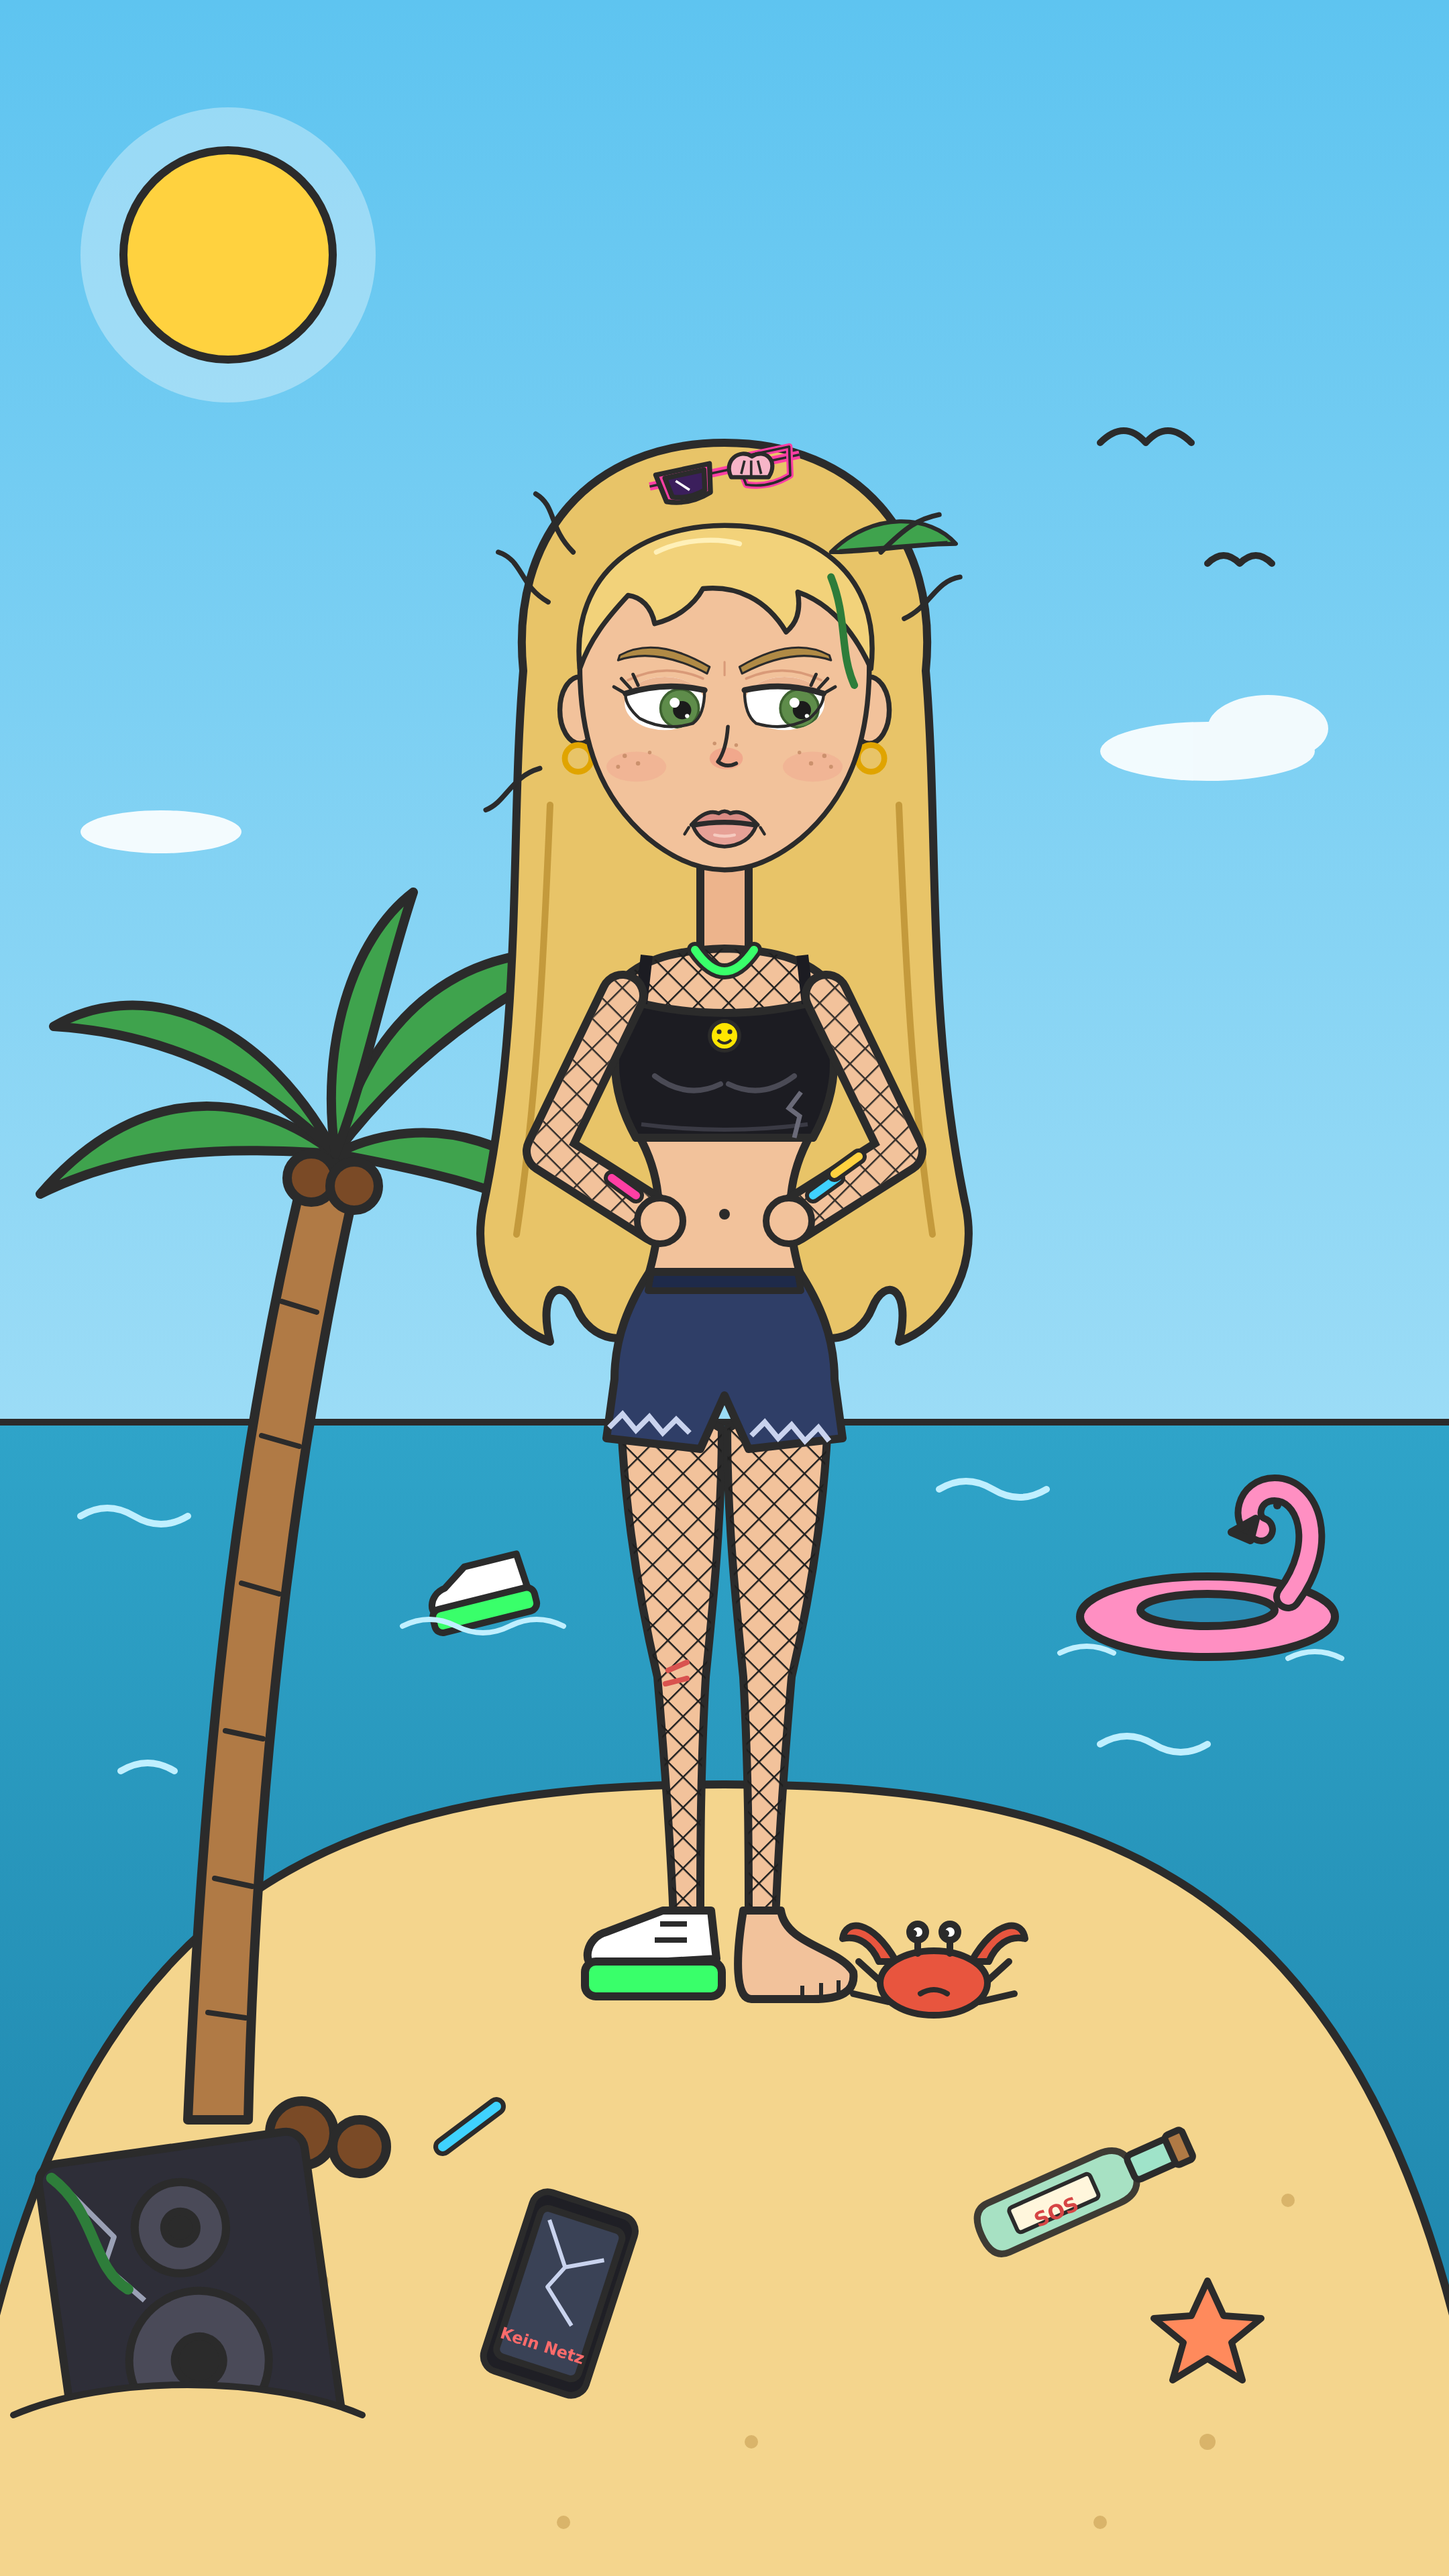
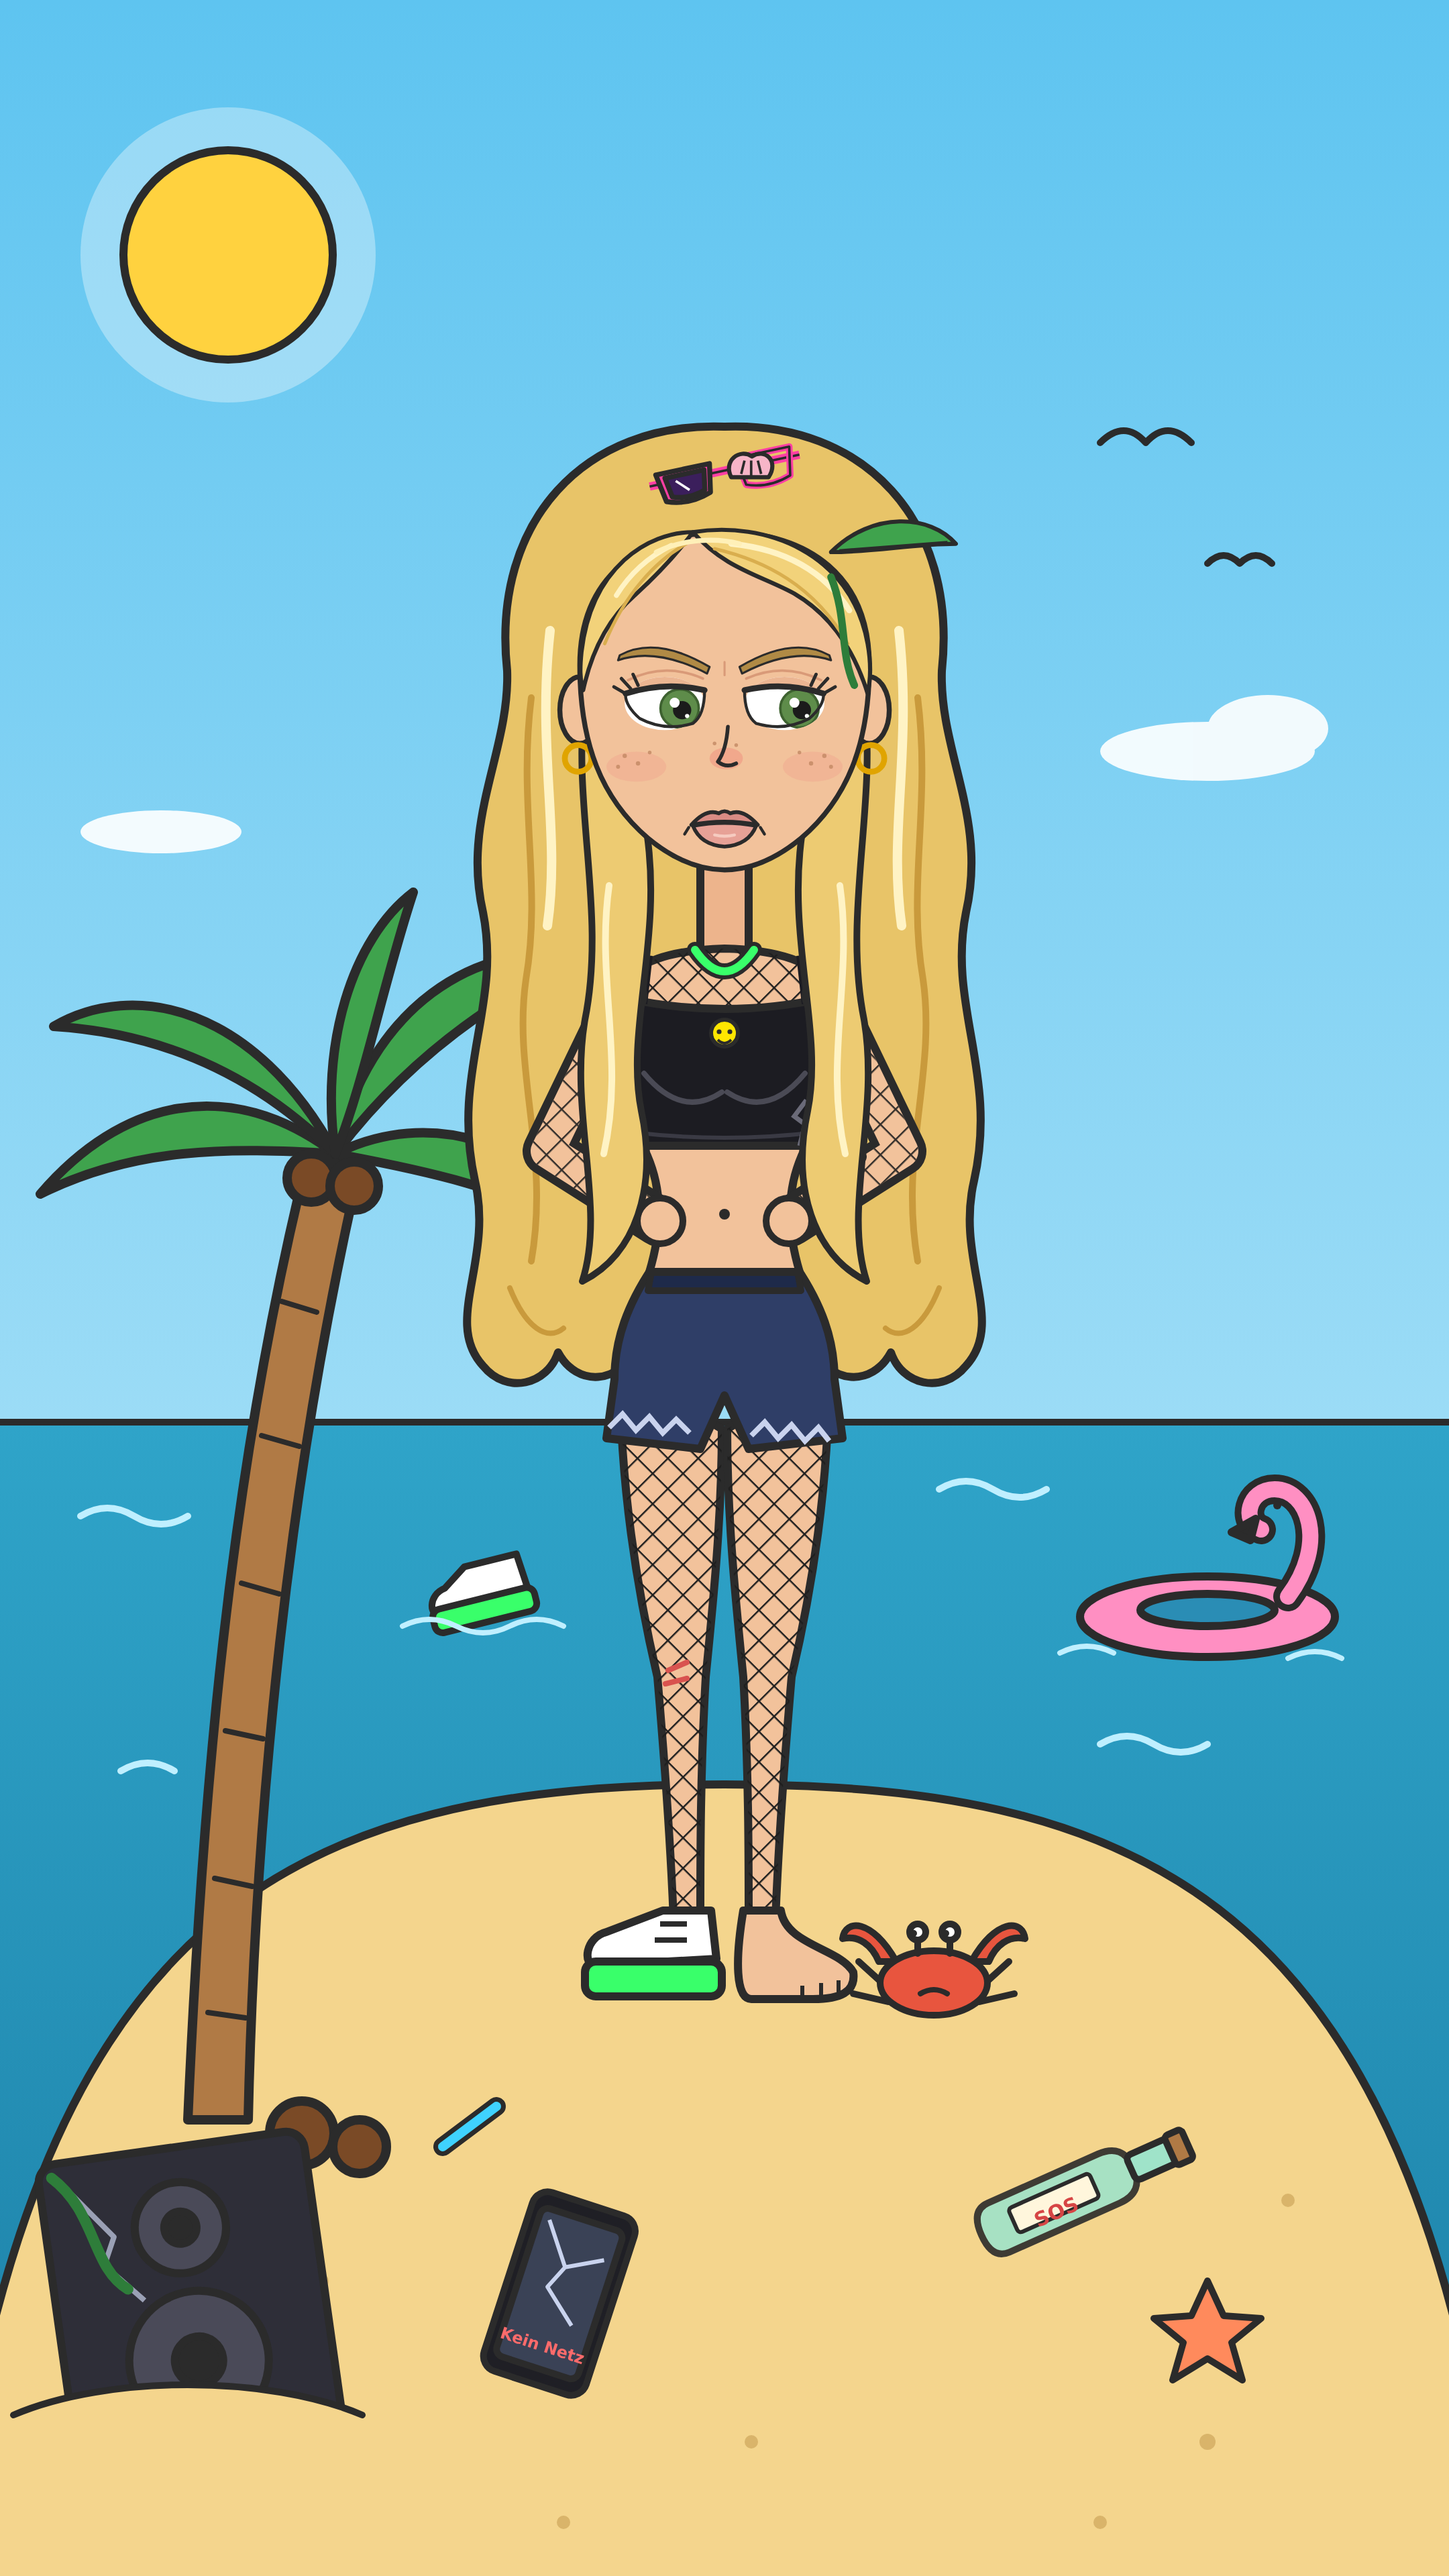
Clara: wavy feminine hair with curtain bangs, larger bust; episode 1 camera (big start, wider scenes)
Claude-Session: https://claude.ai/code/session_01McNdgYugzPJwXYyEGc7sEs

Changed region(s): [[0.3102, 0.1562, 0.6824, 0.5625]]

diff --git a/grumpy/avatar/build_avatar.py b/grumpy/avatar/build_avatar.py
@@ -107,11 +107,15 @@ svg = f'''<svg xmlns="http://www.w3.org/2000/svg" viewBox="0 0 1080 1920" width=
   <path d="M10 1800 C80 1770 200 1770 270 1800 L270 1860 L10 1860 Z" fill="#F4D58D"/>
   <path d="M10 1800 C80 1770 200 1770 270 1800" fill="none" stroke="{O}" stroke-width="5" stroke-linecap="round"/>
 
-  <!-- lange Haare hinten (nass, zerzaust) -->
-  <path d="M540 330 C640 330 700 400 690 500 C700 620 690 760 720 900 C730 950 700 990 670 1000 C680 960 660 950 650 975 C640 1000 610 1005 600 985 L480 985 C470 1005 440 1000 430 975 C420 950 400 960 410 1000 C380 990 350 950 360 900 C390 760 380 620 390 500 C380 400 440 330 540 330 Z"
+  <!-- lange, wellige Haare hinten (blond, mit Glanz) -->
+  <path d="M540 318 C644 314 714 388 702 500 C700 560 736 610 720 680 C706 750 744 800 726 880 C712 940 750 985 720 1018 C702 1040 672 1032 664 1008 C650 1034 618 1032 606 1004 L474 1004 C462 1032 430 1034 416 1008 C408 1032 378 1040 360 1018 C330 985 368 940 354 880 C336 800 374 750 360 680 C344 610 380 560 378 500 C366 388 436 314 540 318 Z"
         fill="#E8C468" stroke="{O}" stroke-width="6" stroke-linejoin="round"/>
-  <g fill="none" stroke="#C49A3C" stroke-width="5" stroke-linecap="round">
-    <path d="M410 600 C405 720 400 820 385 920"/><path d="M670 600 C675 720 680 820 695 920"/>
+  <g fill="none" stroke-linecap="round">
+    <path d="M396 520 C386 600 404 660 392 730 C382 800 410 860 396 940" stroke="#C99A3C" stroke-width="5"/>
+    <path d="M684 520 C694 600 676 660 688 730 C698 800 670 860 684 940" stroke="#C99A3C" stroke-width="5"/>
+    <path d="M410 470 C400 560 418 620 408 690" stroke="#FFF3C4" stroke-width="7"/>
+    <path d="M670 470 C680 560 662 620 672 690" stroke="#FFF3C4" stroke-width="7"/>
+    <path d="M380 960 C392 990 408 1000 420 990 M700 960 C688 990 672 1000 660 990" stroke="#C99A3C" stroke-width="4"/>
   </g>
 
   <!-- Beine mit Netzstrumpfhose -->
@@ -140,7 +144,7 @@ svg = f'''<svg xmlns="http://www.w3.org/2000/svg" viewBox="0 0 1080 1920" width=
   <path d="M486 945 L594 945 L597 962 L483 962 Z" fill="#1E2A4A" stroke="{O}" stroke-width="5" stroke-linejoin="round"/>
 
   <!-- Taille (schmal) -->
-  <path d="M476 846 L604 846 C588 875 584 905 596 948 L484 948 C496 905 492 875 476 846 Z" fill="{SK}" stroke="{O}" stroke-width="6" stroke-linejoin="round"/>
+  <path d="M478 852 L602 852 C588 878 584 908 596 948 L484 948 C496 908 492 878 478 852 Z" fill="{SK}" stroke="{O}" stroke-width="6" stroke-linejoin="round"/>
   <circle cx="540" cy="905" r="4" fill="{O}"/>
 
   <!-- Hals + Schultern (Netzshirt) -->
@@ -149,13 +153,13 @@ svg = f'''<svg xmlns="http://www.w3.org/2000/svg" viewBox="0 0 1080 1920" width=
   <path d="M458 738 C472 716 502 708 540 707 C578 708 608 716 622 738 L614 790 L466 790 Z" fill="url(#net)"/>
 
   <!-- schwarzes Crop-Top (Oberweite betont, kurz) -->
-  <path d="M470 746 Q540 764 610 746 C626 778 626 812 606 848 L474 848 C454 812 454 778 470 746 Z" fill="#1C1C22" stroke="{O}" stroke-width="6" stroke-linejoin="round"/>
+  <path d="M466 744 Q540 760 614 744 C640 776 644 822 612 854 L468 854 C436 822 440 776 466 744 Z" fill="#1C1C22" stroke="{O}" stroke-width="6" stroke-linejoin="round"/>
   <path d="M478 748 L482 712 M602 748 L598 712" stroke="#1C1C22" stroke-width="9"/>
-  <path d="M488 802 Q512 820 537 808 M543 808 Q568 820 592 802" fill="none" stroke="#4A4A55" stroke-width="4" stroke-linecap="round"/>
-  <path d="M478 838 Q540 846 602 838" fill="none" stroke="#3A3A44" stroke-width="3"/>
-  <circle cx="540" cy="772" r="11" fill="#FFE600" stroke="{O}" stroke-width="3"/>
+  <path d="M480 800 Q508 834 538 814 M542 814 Q572 834 600 800" fill="none" stroke="#4A4A55" stroke-width="4" stroke-linecap="round"/>
+  <path d="M472 844 Q540 852 608 844" fill="none" stroke="#3A3A44" stroke-width="3"/>
+  <circle cx="540" cy="770" r="10" fill="#FFE600" stroke="{O}" stroke-width="3"/>
   <circle cx="536" cy="769" r="1.8" fill="{O}"/><circle cx="544" cy="769" r="1.8" fill="{O}"/><path d="M535 775 q5 5 10 0" fill="none" stroke="{O}" stroke-width="2"/>
-  <path d="M592 848 l4 -16 l-8 -6 l9 -12" fill="none" stroke="#6A6A78" stroke-width="3.5"/>
+  <path d="M596 854 l4 -16 l-8 -6 l9 -12" fill="none" stroke="#6A6A78" stroke-width="3.5"/>
 
   <!-- Knicklicht-Kette -->
   <path d="M518 708 Q540 740 562 708" fill="none" stroke="{O}" stroke-width="12" stroke-linecap="round"/>
@@ -170,6 +174,16 @@ svg = f'''<svg xmlns="http://www.w3.org/2000/svg" viewBox="0 0 1080 1920" width=
     <path d="M456 878 l18 13" stroke="{O}" stroke-width="12"/><path d="M456 878 l18 13" stroke="{NEON_PINK}" stroke-width="6"/>
     <path d="M624 878 l-18 13" stroke="{O}" stroke-width="12"/><path d="M624 878 l-18 13" stroke="{NEON_BLUE}" stroke-width="6"/>
     <path d="M640 862 l-18 13" stroke="{O}" stroke-width="12"/><path d="M640 862 l-18 13" stroke="{NEON_YELLOW}" stroke-width="6"/>
+  </g>
+
+  <!-- Strähnen vorne über den Schultern -->
+  <g stroke="{O}" stroke-width="5" stroke-linejoin="round">
+    <path d="M436 520 C426 600 452 680 436 760 C424 830 452 900 434 955 C474 935 490 885 478 828 C466 768 494 700 482 620 C478 580 476 545 470 520 Z" fill="#EDCB72"/>
+    <path d="M644 520 C654 600 628 680 644 760 C656 830 628 900 646 955 C606 935 590 885 602 828 C614 768 586 700 598 620 C602 580 604 545 610 520 Z" fill="#EDCB72"/>
+  </g>
+  <g fill="none" stroke-linecap="round">
+    <path d="M454 660 C444 730 466 790 450 860" stroke="#FFF3C4" stroke-width="5"/>
+    <path d="M626 660 C636 730 614 790 630 860" stroke="#FFF3C4" stroke-width="5"/>
   </g>
 
 {head}

diff --git a/grumpy/videos/folge01/make_video.py b/grumpy/videos/folge01/make_video.py
@@ -17,7 +17,7 @@ O = "#2B2B2B"
 
 # ---------------------------------------------------------------- Avatar-Teile aus avatar.svg
 defs = "".join(re.findall(r"<defs>.*?</defs>", AVATAR, re.S))
-char = AVATAR[AVATAR.index("  <!-- lange Haare hinten"):AVATAR.index("  <!-- Flaschenpost")]
+char = AVATAR[AVATAR.index("  <!-- lange, wellige Haare hinten"):AVATAR.index("  <!-- Flaschenpost")]
 m0 = char.index("  <!-- Mund:")
 m1 = char.index('  <path d="M640 330')
 CHAR_A, CHAR_B = char[:m0], char[m1:]
@@ -93,19 +93,22 @@ def cy_for(s, dy=0):
     return FEET - (FEET_ON_SCREEN - 960) / s + dy
 
 
+HOOK_S = 1.6          # Anfang: Clara groß (Füße tief, Text darüber)
+HOOK_CY = FEET - (1560 - 960) / HOOK_S
+
 KEYS = [
-    (0.00, 1.25, 560, FEET - (1420 - 960) / 1.25),
-    (L(0)["end"] + 0.1, 1.25, 560, FEET - (1420 - 960) / 1.25),
-    (L(2)["end"], 1.00, 540, cy_for(1.0)),
-    (L(3)["end"], 1.20, 555, cy_for(1.2)),
-    (L(4)["start"] + 0.2, 1.38, 330, cy_for(1.38)),
-    (L(5)["end"] + 0.2, 1.38, 790, cy_for(1.38)),
-    (L(6)["start"] + 0.3, 1.00, 540, cy_for(1.0)),
-    (L(8)["end"], 1.08, 545, cy_for(1.08)),
-    (L(9)["start"] + 0.4, 1.40, 560, cy_for(1.4)),
-    (L(10)["end"] + 0.2, 1.42, 560, cy_for(1.42)),
-    (L(11)["start"] + 0.3, 1.00, 540, cy_for(1.0)),
-    (DURATION + 1, 1.00, 540, cy_for(1.0)),
+    (0.00, HOOK_S, 560, HOOK_CY),
+    (L(0)["end"] + 0.1, HOOK_S, 560, HOOK_CY),
+    (L(2)["end"], 0.90, 540, cy_for(0.90)),
+    (L(3)["end"], 1.05, 555, cy_for(1.05)),
+    (L(4)["start"] + 0.2, 1.20, 350, cy_for(1.20)),
+    (L(5)["end"] + 0.2, 1.20, 770, cy_for(1.20)),
+    (L(6)["start"] + 0.3, 0.90, 540, cy_for(0.90)),
+    (L(8)["end"], 0.96, 545, cy_for(0.96)),
+    (L(9)["start"] + 0.4, 1.22, 560, cy_for(1.22)),
+    (L(10)["end"] + 0.2, 1.24, 560, cy_for(1.24)),
+    (L(11)["start"] + 0.3, 0.90, 540, cy_for(0.90)),
+    (DURATION + 1, 0.90, 540, cy_for(0.90)),
 ]
 
 
